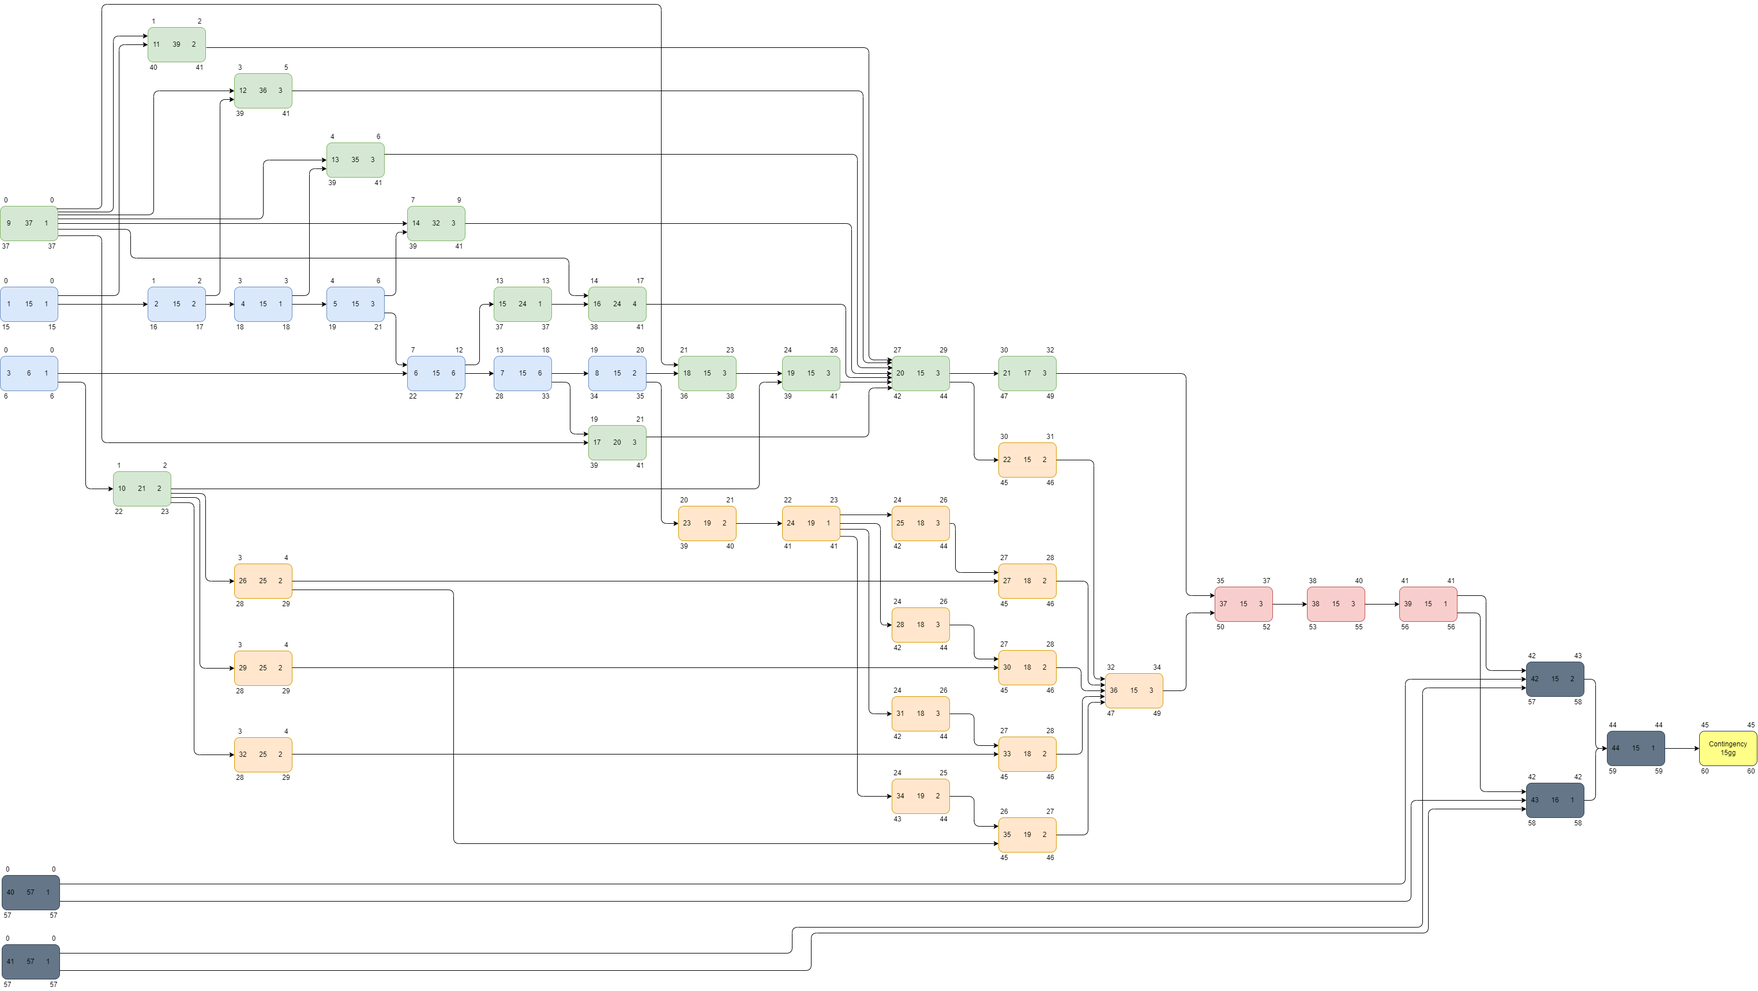
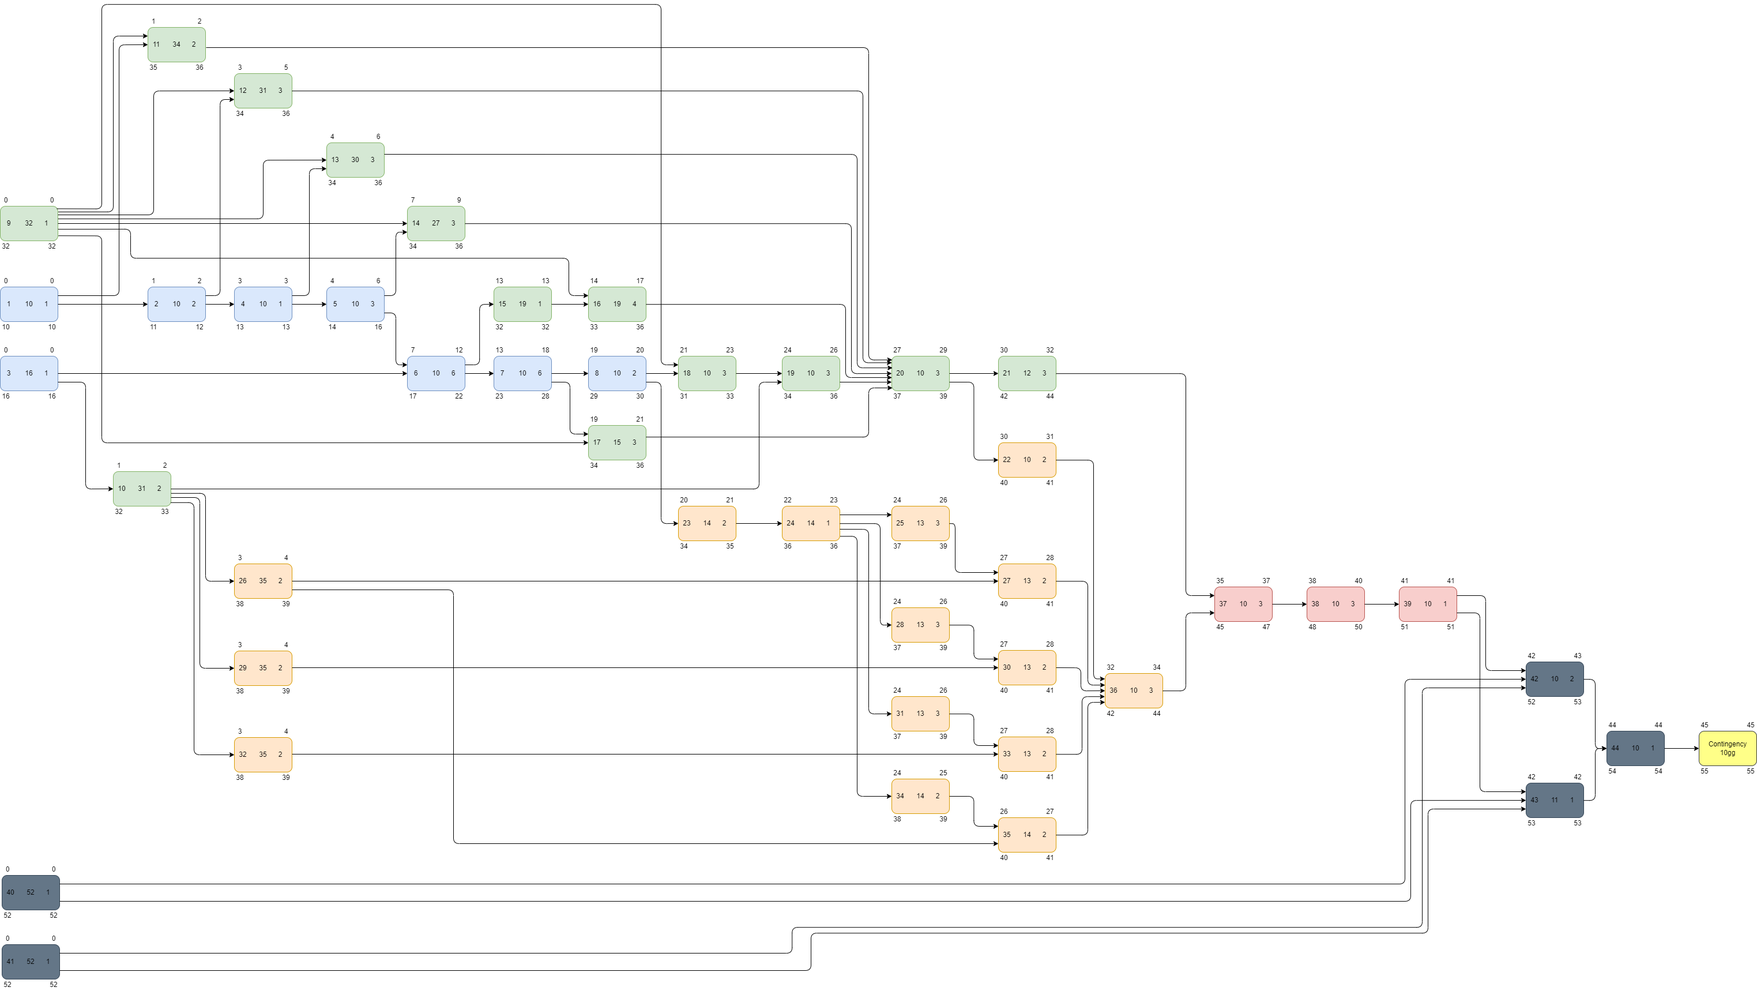
refactoring/improvements

Changed region(s): [[0.9665, 0.7404, 1.0, 0.7712], [0.4677, 0.3085, 0.4989, 0.3702]]

diff --git a/report/approccio_utilizzato.md b/report/approccio_utilizzato.md
@@ -44,6 +44,7 @@ In tutti i meeting con _Specifici_, Theoden, il PM, ricopre sia il ruolo di team
 **Argomenti trattati**:
 
 - **revisione dell'RFP**
+- analisi dello **stato corrente**
 - **analisi preliminare del progetto**: valutazione della fattibilità tecnica e delle risorse necessarie
 - **definizione preliminare delle CoS**
 - **SWOT e Risk Analysis**: analisi di punti di forza, debolezze, opportunità e minacce
@@ -59,6 +60,13 @@ In tutti i meeting con _Specifici_, Theoden, il PM, ricopre sia il ruolo di team
 
 Tutti i documenti sono una prima bozza, che deve essere revisionata da _Specifici_.
 
+#### Nota sul Risk Anaysis
+La risk analysis viene effettuata così in anticipo per diversi motivi:
+
+1. agire come **consulenti** presentando al cliente eventuali problemi a cui non avevano pensato o dato il giusto peso
+2. avere un'idea sulla **fattibilità** del progetto in tutti i sui aspetti
+3. anticipare **cambi di scope** derivati da incomprensioni
+4. eventualmente ragionare preventivamente sulle figure del **team** da selezionare, in base a esperienza e preparazione tecnica specifica
 
 
 ### Primo meeting di allineamento 12/09/2023
@@ -94,9 +102,11 @@ Tutti i documenti sono una prima bozza, che deve essere revisionata da _Specific
 - **[CoS](scoping/CoS.html)**
 - **[Use Cases](scoping/use_cases.html)**
 
-**Documenti prodotti**:
+**Documenti prodotti a fronte del meeting**:
 - **[RBS](scoping/RBS.html)** (da discutere)
 
+##### Nota sull'RBS
+Per la raccolta dei requisiti e la stesura dell'RBS viene usato il tool di **Requirements Reuse** e **Use Cases**. Per la parte di
 
 ### Secondo meeting di allineamento 13/09/2023
 **Partecipanti**:
@@ -115,8 +125,6 @@ Tutti i documenti sono una prima bozza, che deve essere revisionata da _Specific
 
 - assicurasi che siano stati compresi correttamente le attività da svolgere
 - identificare eventuali gap o malintesi prima di procedere alla fase di scoping dettagliato
-- decidere quale **PMLC** utilizzare
-
 - **discussione RBS**: si presentano le macro attività individuate per lo sviluppo del sistema
 - **discussione scelta PMLC**: una volta aggiornato l'RBS, viene deciso quale PMLC adottare 
 
@@ -168,6 +176,7 @@ Data la chiarezza dell'RBS, si è deciso in modo unanime per uno sviluppo **line
 
 - **test**: viene discusso come effettuare i test, vengono mostrate le proposte elaborate e vengono richiesti gli accessi ai dati della piattaforma attuale
 - **costi**: viene discusso il calcolo del costo del sistema, sulla richiesta di risparmio sui test massivi e sulla **scope bank**
+- vengono decise le modalità di validazione dei mockup delle pagine web
 
 **Documenti aggiornati**
 
@@ -229,7 +238,7 @@ Vengono effettuate 3 meeting diversi dividendo i membri per team
 
 #### Modalità della scelta delle durate dei task
 
-Per ogni attività, il collega senior di ciascun gruppo propone una soluzione basata sulla propria esperienza e sui progetti precedenti della stessa tipologia. La proposta viene poi discussa con gli altri membri del team, ma la decisione finale spetta comunque a lui. 
+Per ogni attività, il collega senior di ciascun gruppo propone una soluzione basata sulla propria esperienza e sui progetti precedenti della stessa tipologia. La proposta viene poi discussa con gli altri membri del team, usando la **three point technique**, ma la decisione finale spetta comunque a lui. 
 
 Per questo progetto, i giorni proposti per ciascuna attività differivano solo leggermente, quindi è stato facile arrivare a una decisione. I membri dei vari team hanno già esperienza sia con le tecnologie utilizzate che con le modalità di sviluppo, il che ha ridotto significativamente i tempi di discussione.
 
@@ -265,7 +274,7 @@ Nel caso ci fossero dei problemi che impattano sullo scope viene immediatamente 
 
 #### Definition of DONE
 
-Ogni componente e l'intero sistema vengono definiti **DONE** una volta che ciascuno di essi supera tutti i suoi test.
+Ogni componente e l'intero sistema vengono definiti **DONE** una volta che ciascuno di essi supera tutti i suoi test ed è stata completata la sua documentazione. 
 
 ### Project Meetings
 
@@ -299,7 +308,7 @@ Le risorse che sono state assegnate a questo progetto saranno parzialmente impeg
 
 #### Slittamento data di fine progetto
 
-Considerando i quindici giorni lavorativi di contingenza contrattate si ha tempo per gestire eventuali problematiche. Questo dovrebbe consentire di finire il progetto in tempo.
+Considerando i 10 giorni lavorativi di contingenza contrattate si ha tempo per gestire eventuali problematiche. Questo dovrebbe consentire di finire il progetto in tempo.
 
 #### Straordinari
 
@@ -315,9 +324,9 @@ Il progetto è di tipo tradizionale, anche se non tutti i task del WBS possiedon
 Vengono usati diversi tool per il monitoraggio:
 
 - **project status meetings**: _Daily Meetings_ interni e _Review Meeting_ con _Specifici_
-- **gantt chart**: viene utilizzato il Gantt nella versione _Gantt Chart Project Status Report_ per verificare che tutti i task rispettino i giorni prestabiliti
+- **gantt chart**: viene utilizzato il Gantt nella versione _Gantt Chart Project Status Report_ per verificare che tutti i task rispettino i giorni prestabiliti. Gli sviluppatori utilizzano una board creata ad hoc su _Notion_ per gestire le attività da fare
 - **variance reports**: la scelta è basata sul fatto che si ha un interesse su cosa è andato storto durante lo svolgimento dei diversi tasks, non solamente riguardo quelli più rilevanti. Anche se generalmente i tasks hanno importanza diversa fra loro, può capitare che il non completamento di un task non permetterebbe di iniziare quello successivo
-- **cumulative reports**: tabelle molto semplici su fogli di calcolo aggiornate frequentemente, in cui vengono mostrati, per ogni task da fare, lo stato, la %completamento, le responsabilità ed eventuali note. Servono per la gestione interna del team
+- **cumulative reports**: tabelle molto semplici su fogli di calcolo aggiornate frequentemente, in cui vengono mostrati, per ogni task da fare, lo stato, la % completamento, le responsabilità ed eventuali note. Servono per la gestione interna del team
 
 ### Monitoraggio dei costi
 
@@ -331,7 +340,7 @@ In particolare, è importante gestire la presenza di scope creep, affinché la g
 
 ### Issue Log
 
-Si utilizza una bacheca di _Jira_, condivisa tra i membri del team, che contiene le liste "Todo, In Progress, Done, In Hold". Ogni issue viene creata come una "scheda" nella lista "Todo" e tenuta aggiornata. Ogni scheda contiene titolo, descrizione e proprietari/o. Il sistema è stato configurato in modo da mandare in automatico una mail al proprietario della issue ad ogni sua creazione o modifica.
+Si utilizza una bacheca di _Jira_, condivisa tra i membri del team e con _Specifici_, che contiene le liste "Todo, In Progress, Done, In Hold". Ogni issue viene creata come una "scheda" nella lista "Todo" e tenuta aggiornata. Ogni scheda contiene titolo, descrizione e proprietari/o. Il sistema è stato configurato in modo da mandare in automatico una mail al proprietario della issue ad ogni sua creazione o modifica.
 
 ### Project status meetings
 
@@ -345,8 +354,7 @@ Fino adesso si è discusso di alcune tecniche di prevenzione (sopra elencate), o
 
 ### Acceptance 
 
-Durante tutto il periodo di sviluppo, sono stati effettuati tutti i test previsti per verificare il
-corretto funzionamento del sistema e ottenere feedback per risolvere eventuali problematiche impreviste. Oltre al corretto funzionamento del sistema, sono state valutate anche le performance della pipeline e del sito, misurando la loro efficienza nell'esecuzione delle varie operazioni principali e garantendo che soddisfino le aspettative di velocità e reattività che erano state concordate durante la fase di analisi dei requisiti.
+Durante tutto il periodo di sviluppo, sono stati effettuati tutti i test previsti per verificare il corretto funzionamento del sistema e ottenere feedback per risolvere eventuali problematiche impreviste. Oltre al corretto funzionamento del sistema, sono state valutate anche le performance della pipeline e del sito, misurando la loro efficienza nell'esecuzione delle varie operazioni principali e garantendo che soddisfino le aspettative di velocità e reattività che erano state concordate durante la fase di analisi dei requisiti.
 
 ### Release e collaudo
 

diff --git a/report/scoping/risks_analysis.md b/report/scoping/risks_analysis.md
@@ -42,9 +42,9 @@ th, td{
             <td><strong>Accuratezza</strong></td>
             <td>L'algoritmo di estrazione potrebbe non raggiungere il livello di <strong>accuratezza</strong> necessario.</td>
             <td>Tecnico</td>
-            <td>alta(4)</td>
+            <td>bassa(3)</td>
             <td>alto(4)</td>
-            <td><span class="high">16</span></td>
+            <td><span class="medium">12</span></td>
             <td><strong>Controlli continui</strong> durante la realizzazione della soluzione mirati a mantenere alta la qualità della stessa. In caso di problemi, ricercare <strong>fornitori alternativi</strong> per le tecnologie impiegate.</td>
         </tr>
         <tr>
@@ -84,6 +84,33 @@ th, td{
             <td>Implementare <strong>politiche rigorose</strong> di gestione dei dati, utilizzare tecnologie di <strong>sicurezza</strong> per proteggere le informazioni.</td>
         </tr>
         <tr>
+            <td><strong>Costo test troppo elevati</strong></td>
+            <td>I costi per i test potrebbero essere <strong>elevati</strong> a causa di molte richieste a servizi esterni.</td>
+            <td>Tecnico</td>
+            <td>alta(4)</td>
+            <td>medio(3)</td>
+            <td><span class="medium">12</span></td>
+            <td>Creare dei <strong>mock</strong> delle chiamate da usare in fase di test.</td>
+        </tr>
+        <tr>
+            <td><strong>Poca familiarità con le tecnologie</strong></td>
+            <td>Le tecnologie impiegate necessitano molte risorse per poter imparare il loro funzionamento.</td>
+            <td>Tecnico</td>
+            <td>molto bassa(1)</td>
+            <td>medio(3)</td>
+            <td><span class="low">3</span></td>
+            <td>Organizzare <strong>corsi</strong> per l’addestramento sulle tecnologie da utilizzare. Fare riferimento ad altri reparti in azienda se hanno lavorato con tali tecnologie.</td>
+        </tr>
+        <tr>
+            <td><strong>Improvviso cambio di scope</strong></td>
+            <td><strong>Cambio di scope</strong> rispetto a quello originariamente stabilito.</td>
+            <td>Tecnico</td>
+            <td>bassa(2)</td>
+            <td>alto(4)</td>
+            <td><span class="medium">8</span></td>
+            <td>Organizzare il team e mantenere i rapporti con il cliente in modo da <strong>integrare al meglio</strong> le modifiche.</td>
+        </tr>
+        <tr>
             <td><strong>Resistenza al cambiamento</strong></td>
             <td>I dipendenti <em>Specifici</em> potrebbero <strong>resistere</strong> all'adozione del nuovo sistema per timore di perdere il posto di lavoro o perché devono apprendere un nuovo processo.</td>
             <td>Cambiamento</td>
@@ -118,33 +145,6 @@ th, td{
             <td>alto(4)</td>
             <td><span class="medium">8</span></td>
             <td>Organizzare in <strong>anticipo</strong> gli sviluppatori. Verifica delle conoscenze delle risorse del team di sviluppo ed eventuale assunzione di nuovo personale, anche a progetto.</td>
-        </tr>
-        <tr>
-            <td><strong>Costo test troppo elevati</strong></td>
-            <td>I costi per i test potrebbero essere <strong>elevati</strong> a causa di molte richieste a servizi esterni.</td>
-            <td>Tecnico</td>
-            <td>alta(4)</td>
-            <td>medio(3)</td>
-            <td><span class="medium">12</span></td>
-            <td>Creare dei <strong>mock</strong> delle chiamate da usare in fase di test.</td>
-        </tr>
-        <tr>
-            <td><strong>Poca familiarità con le tecnologie</strong></td>
-            <td>Le tecnologie impiegate necessitano molte risorse per poter imparare il loro funzionamento.</td>
-            <td>Tecnico</td>
-            <td>molto bassa(1)</td>
-            <td>medio(3)</td>
-            <td><span class="low">3</span></td>
-            <td>Organizzare <strong>corsi</strong> per l’addestramento sulle tecnologie da utilizzare. Fare riferimento ad altri reparti in azienda se hanno lavorato con tali tecnologie.</td>
-        </tr>
-        <tr>
-            <td><strong>Improvviso cambio di scope</strong></td>
-            <td><strong>Cambio di scope</strong> rispetto a quello originariamente stabilito.</td>
-            <td>Tecnico</td>
-            <td>bassa(2)</td>
-            <td>alto(4)</td>
-            <td><span class="medium">8</span></td>
-            <td>Organizzare il team e mantenere i rapporti con il cliente in modo da <strong>integrare al meglio</strong> le modifiche.</td>
         </tr>
         <tr>
             <td><strong>Cliente non disponibile</strong></td>

diff --git a/report/scoping/POS.md b/report/scoping/POS.md
@@ -5,7 +5,7 @@
 # Project Overview Statement
 
 ## Descrizione del problema
-L'azienda _Specifici_ possiede una grande quantità di documenti di **Constatazione Amichevole di Incidente (CAI)** in formato **PDF** prodotte dai sui clienti. I dipendenti di _Specifici_ le leggono e caricano manualmente le informazioni sul loro portale. Quest'ultimo è collegato a diversi database relazionali _MySQL_ che mantengono tutte le informazioni. Un **dipendente _Specifici_**[^1] impiega circa 7 minuti a caricare manualmente i dati di ciascun documento. Da stime calcolate internamente, l'8% dei file analizzati viene caricato sul portale con almeno un errore. Vengono ricevuti in media 30 documenti al giorno, che richiedono circa 3.5 ore di lavoro totali. Questo implica che i dipendenti debbano usare le loro ore lavorative per svolgere un lavoro ripetitivo ed automatizzabile.
+L'azienda _Specifici_ possiede una grande quantità di documenti di **Constatazione Amichevole di Incidente (CAI)** in formato **PDF** prodotte dai sui clienti. I dipendenti di _Specifici_ le leggono e caricano manualmente le informazioni sul loro portale. Quest'ultimo è collegato a diversi database relazionali _MySQL_ che mantengono tutte le informazioni. Un **dipendente _Specifici_**[^1] impiega circa 7 minuti a caricare manualmente i dati di ciascun documento. Da stime calcolate internamente da _Specifici_, l'8% dei file analizzati viene caricato sul portale con almeno un errore. Vengono ricevuti in media 30 documenti al giorno, che richiedono circa 3.5 ore di lavoro totali giornaliere. Questo implica che i dipendenti debbano usare le loro ore lavorative per svolgere un lavoro ripetitivo ed automatizzabile.
 
 ## Goal
 Il goal consiste nel delegare l'elaborazione dei dati ad un sistema che, con una **pipeline d'ingestion**[^2] automatica, estragga da ciascun documento _CAI_, compilato a mano o digitalmente, i metadati necessari. Questi dati vengono mostrati all'utente e successivamente salvati nei vari database. I dipendenti _Specifici_ possono, in un secondo momento, effettuare **ricercare, visualizzare e modificare**, i metadati estratti dai documenti.
@@ -21,7 +21,7 @@ Il goal consiste nel delegare l'elaborazione dei dati ad un sistema che, con una
 - **costi ridotti nella gestione dei sinistri**: riduzione di almeno **40%** dei costi operativi legati alla gestione dei sinistri
 - **automazione avanzata**: almeno il **98% dei documenti** caricati dai clienti sul portale devono essere processati automaticamente senza intervento manuale dei dipendenti _Specifici_
 - **benessere sul lavoro**: almeno l'**80% dei dipendenti** _Specifici_ coinvolti devono riportare un aumento della soddisfazione grazie alla riduzione del carico di lavoro manuale, alla maggiore efficienza operativa e ad una nuova valorizzazione delle loro mansioni lavorative
-- **riduzione del tasso di errori**: il tasso d'errore annuale deve passare dal precedente 8% a **meno del 3%**
+- **riduzione del tasso di errori**: il tasso d'errore annuale sui dati caricati deve passare dal precedente 8% a **meno del 3%**
 
 ## Assunzioni
 - il sistema sarà un **servizio _E2E_**[^3] implementato direttamente sulla piattaforma **_AWS_**[^4] del cliente
@@ -39,7 +39,7 @@ Il goal consiste nel delegare l'elaborazione dei dati ad un sistema che, con una
 
 [^1]: all'interno dei vari documenti vengono definiti con _dipendenti Specifici_ le persone addette ad esaminare e caricare i dati manualmente. Vengono definiti _clienti_ i clienti di _Specifici_, chi compila e invia il documento del sinistro
 [^2]: flusso automatizzato che raccoglie, trasforma e carica i dati in un database
-[^3]: include la fornitura del servizio completo, dalla pianificazione e progettazione fino alla manutenzione e supporto continuo
-[^4]: **Amazon Web Services** è una piattaforma di servizi di cloud computing fornita da Amazon, che offre infrastruttura, piattaforma e software come servizio per costruire e gestire applicazioni nel cloud
+[^3]: si riferisce all'implementazione e gestione completa di un sistema o di una soluzione, dall'origine (ad esempio, l'input dell'utente) fino al risultato finale
+[^4]: **Amazon Web Services** è una piattaforma di servizi di cloud computing fornita da Amazon, che offre infrastruttura, piattaforma e software come servizio per costruire e gestire applicazioni nel Cloud
 
 

diff --git a/report/planning/project_proposal.md b/report/planning/project_proposal.md
@@ -13,7 +13,7 @@ Il sistema è un **servizio _E2E_** implementato direttamente sulla piattaforma 
 
 
 ## Background
-L'azienda _Specifici_ possiede una grande quantità di documenti di **constatazione amichevole di incidente (CAI)** in formato **PDF** prodotte dai sui clienti. I dipendenti di _Specifici_ le leggono e caricano manualmente le informazioni sul loro portale. Quest'ultimo è collegato a diversi database relazionali _MySQL_ che mantengono tutte le informazioni. Un **dipendente _Specifici_** impiega circa 7 minuti a caricare manualmente i dati di ciascun documento. Da stime calcolate internamente l'8% dei file analizzati viene caricato sul portale con almeno un errore. Vengono ricevuti in media 30 documenti al giorno, che richiedono circa 3.5 ore di lavoro totali. Questo implica che i dipendenti siano pagati per svolgere un lavoro ripetitivo ed automatizzabile.
+L'azienda _Specifici_ possiede una grande quantità di documenti di **Constatazione Amichevole di Incidente (CAI)** in formato **PDF** prodotte dai sui clienti. I dipendenti di _Specifici_ le leggono e caricano manualmente le informazioni sul loro portale. Quest'ultimo è collegato a diversi database relazionali _MySQL_ che mantengono tutte le informazioni. Un **dipendente _Specifici_**[^1] impiega circa 7 minuti a caricare manualmente i dati di ciascun documento. Da stime calcolate internamente da _Specifici_, l'8% dei file analizzati viene caricato sul portale con almeno un errore. Vengono ricevuti in media 30 documenti al giorno, che richiedono circa 3.5 ore di lavoro totali giornaliere. Questo implica che i dipendenti debbano usare le loro ore lavorative per svolgere un lavoro ripetitivo ed automatizzabile.
 
 ## Obiettivi
 - **implementazione della logica** di estrazione
@@ -62,7 +62,7 @@ Il progetto sarà sviluppato utilizzando un approccio lineare, grazie alla chiar
 ### Tempi
 
 Si prevede che lo sviluppo del progetto richiederà circa tre mesi. Durante questo periodo, verranno organizzate diverse riunioni settimanali per monitorare lo stato di avanzamento.
-La conclusione del progetto potrà subire un ritardo di 15 giorni lavorativi, destinati alla _scope bank contingency_.
+La conclusione del progetto potrà subire un ritardo di 10 giorni lavorativi, destinati alla _scope bank contingency_.
 Le stime dei tempi sono disponibili nei documenti di [PND](planning/PND.html) e Project Scheduling (importare il file [gantt.csv](files/gantt.csv) sul sito [https://www.onlinegantt.com/#/gantt](https://www.onlinegantt.com/#/gantt)).
 
 Successivo al termine dello sviluppo segue una fase di 4 mesi di collaudo da parte dei dipendenti _Specifici_ e dei clienti. 

diff --git a/report/planning/cost_management.md b/report/planning/cost_management.md
@@ -44,8 +44,8 @@ Per quanto riguarda la messa a punto del sistema, utilizzando il calcolatore dei
 
 ## Scope bank
 
-Viene anche decisa una **scope bank** di _contingency_ di 15 giorni lavorativi. Se al termine del progetto avanzassero dei giorni, questi verrebbero scontati direttamente dai giorni di un prossimo progetto con _Specifici_. 
+Viene anche decisa una **scope bank** di _contingency_ di 10 giorni lavorativi. Se al termine del progetto avanzassero dei giorni, questi verrebbero scontati direttamente dai giorni di un prossimo progetto con _Specifici_. 
 
 ## Cash Flow
 
-Per questo progetto non sono state assunti nuovi dipendenti. È previsto un bonus nel caso il lavoro fosse svolto entro la data prestabilita con buoni risultati.
+Per questo progetto non sono state assunti nuovi dipendenti. È previsto un bonus ai dipendenti _HyperFlow_ nel caso il lavoro fosse svolto entro la data prestabilita con buoni risultati.

diff --git a/report/planning/WBS.md b/report/planning/WBS.md
@@ -62,8 +62,9 @@
     - 4.3 Pubblicazione guida su Confluence
      
 5. **Formazione**
-  - 5.1 Selezione formatori interni
-  - 5.2 Definizione modalità di formazione
-  - 5.3 Sviluppo materiali didattici
-  - 5.4 Pianificazione calendario formativo e invio comunicazioni ai partecipanti
-  - 5.5 Esecuzione formazione
+  - Formare dipendenti _Specifici_
+    - 5.1 Selezione formatori interni
+    - 5.2 Definizione modalità di formazione
+    - 5.3 Sviluppo materiali didattici
+    - 5.4 Pianificazione calendario formativo e invio comunicazioni ai partecipanti
+    - 5.5 Esecuzione formazione

diff --git a/report/scoping/CoS.md b/report/scoping/CoS.md
@@ -3,6 +3,7 @@
 </p>
 
 # Conditions of Satisfaction
+- il sistema deve gestire documenti compilati a **mano o digitalmente**
 - il sistema deve poter ricevere in ingresso non solo **PDF**, ma anche **jpg, png e tiff**
 - il sistema, in fase di sviluppo, deve raggiungere almeno il **98% di accuratezza complessiva** nell'estrazione dei metadati. Nel caso questa non potesse essere raggiunta _Specifici_ è disposta ad accettare un **97%**
 - il sistema non deve accettare per l'elaborazione file che contengono un'immagine con **qualità troppo bassa**

diff --git a/report/scoping/RBS.md b/report/scoping/RBS.md
@@ -24,8 +24,4 @@
    - 4.1 Guida per l'utente
 
 5. **Formazione**
-   - 5.1 Selezione formatori interni
-   - 5.2 Definizione modalità  di formazione (in presenza,  online)
-   - 5.3 Sviluppo materiali didattici
-   - 5.4 Pianificazione calendario formativo e invio comunicazioni ai partecipanti
-   - 5.5 Esecuzione formazione
+   - 5.1 Formare dipendenti _Specifici_

diff --git a/report/launching/quality.md b/report/launching/quality.md
@@ -18,7 +18,7 @@
 - Utilizzare tools per eseguire il testing del codice in automatico e frequentemente
 - Utilizzare approccio TDD
 
-##### Documentazione
+#### Documentazione
 - Documentare il codice, le architetture e i processi in modo dettagliato e aggiornato utilizzando _Sphinx_ e _Confluence_
 
 #### Sicurezza
